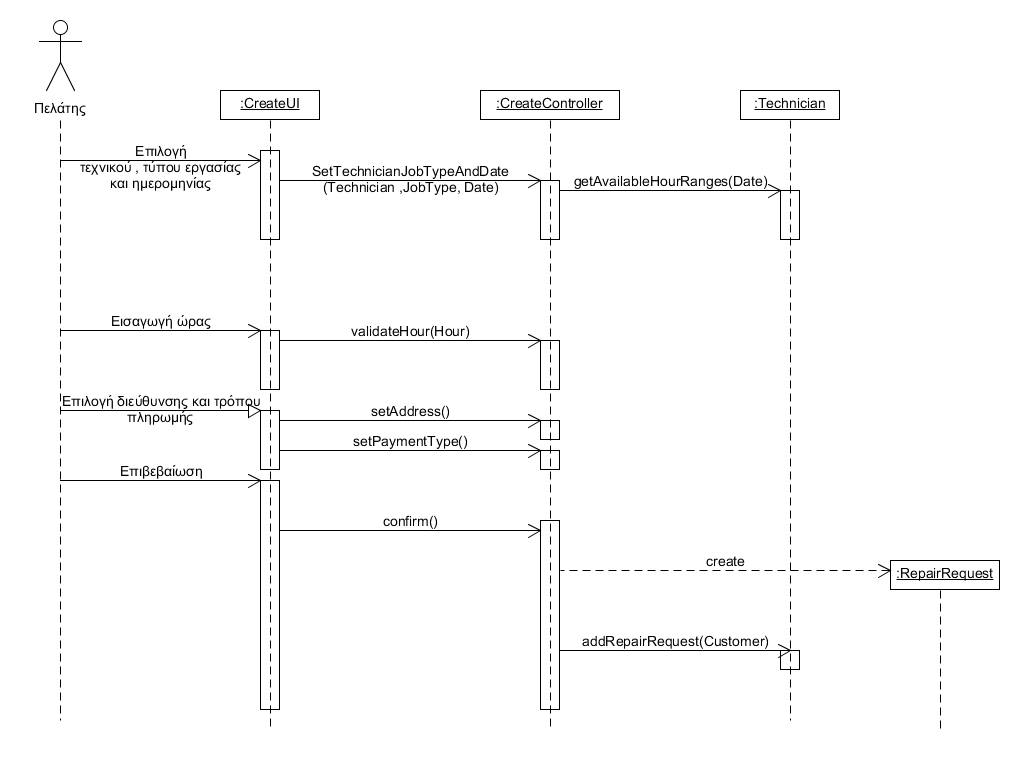
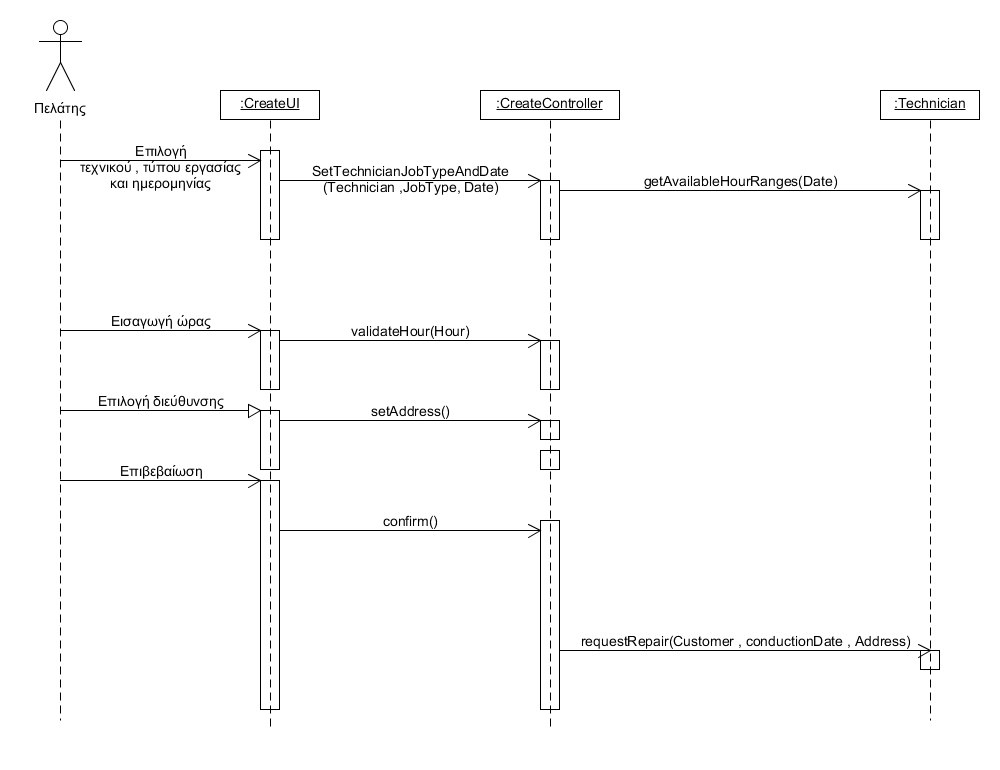
Customer doesn't choose the preferred way to pay on uc4

diff --git a/requirements/uc4-create-appointment.md b/requirements/uc4-create-appointment.md
@@ -16,7 +16,7 @@
 3. Το σύστημα προβάλει τα διαθέσιμα εύρη ωρών του τεχνικού.
 4. Ο πελάτης επιλέγει μια ώρα της ημέρας για το ραντεβού.
 5. Το σύστημα ελέγχει αν η ώρα ανήκει στα διαθέσιμα εύρη.
-6. Ο πελάτης δίνει την διεύθυνση διεξαγωγής του ραντεβού τον επιθυμητό τρόπο πληρωμής.
+6. Ο πελάτης δίνει την διεύθυνση διεξαγωγής του ραντεβού.
 7. Το σύστημα εμφανίζει τις λεπτομέρειες της αίτησης
 8. Ο πελάτης επιβεβαιώνει το αίτημα
 9. Το σύστημα ειδοποιεί τον τεχνικό πως ενας πελάτης ζητάει ενα ραντεβού(με βάση τον τρόπο που έχει επιλέξει να ειδοποιείται: sms/τηλ/e-mail).
